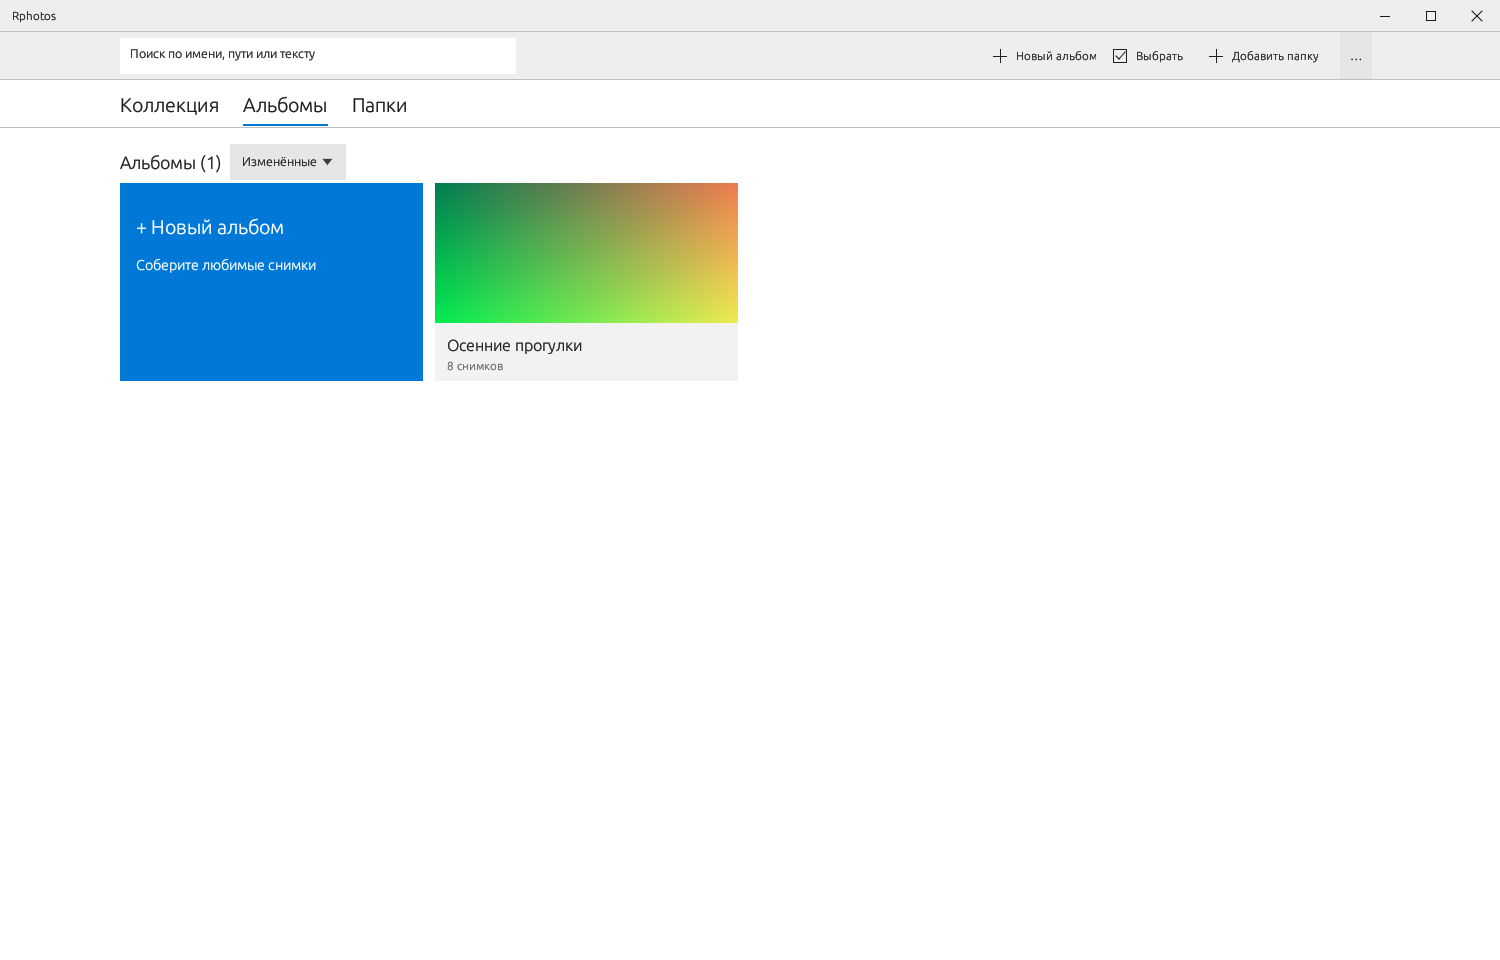
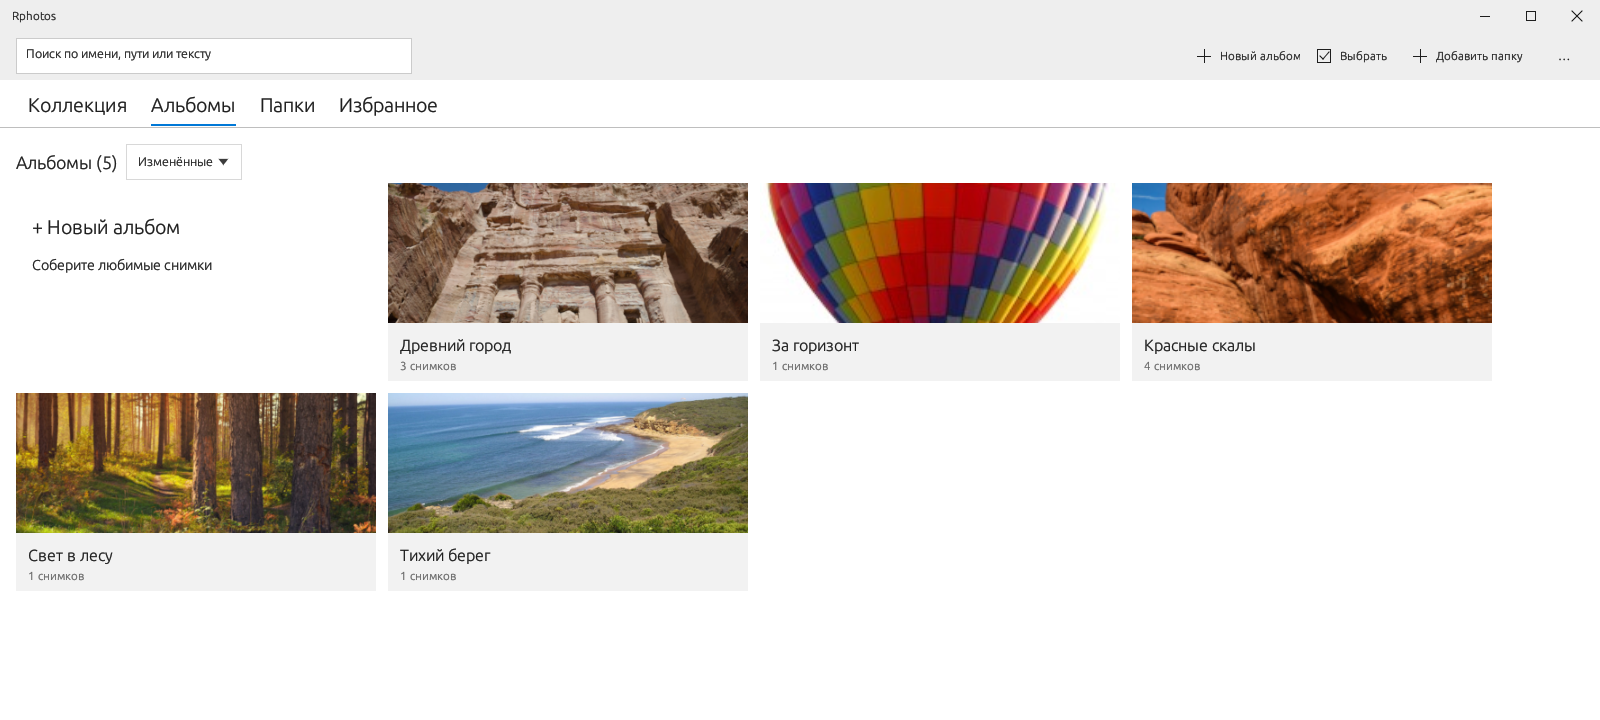
Refresh GitHub gallery with current UI and credited travel photographs

diff --git a/src/library/showcase.rs b/src/library/showcase.rs
@@ -1,0 +1,173 @@
+//! Opt-in public documentation captures; never reads the user's library.
+use super::*;
+use egui_kittest::Harness;
+
+#[test]
+#[ignore = "requires explicitly supplied licensed photos, RPHOTOS_SHOWCASE_INPUT and RPHOTOS_CAPTURE_DIR"]
+fn capture_showcase() {
+    let input = PathBuf::from(
+        std::env::var_os("RPHOTOS_SHOWCASE_INPUT").expect("set RPHOTOS_SHOWCASE_INPUT"),
+    );
+    let output =
+        PathBuf::from(std::env::var_os("RPHOTOS_CAPTURE_DIR").expect("set RPHOTOS_CAPTURE_DIR"));
+    std::fs::create_dir_all(&output).unwrap();
+    let temp = tempfile::tempdir().unwrap();
+    let source = temp.path().join("Travel journal");
+    std::fs::create_dir(&source).unwrap();
+    let mut inputs: Vec<_> = std::fs::read_dir(input)
+        .unwrap()
+        .map(|e| e.unwrap().path())
+        .filter(|p| p.extension().is_some_and(|e| e == "jpg"))
+        .collect();
+    inputs.sort();
+    assert!(inputs.len() >= 6, "supply at least six licensed JPGs");
+    for path in &inputs {
+        std::fs::copy(path, source.join(path.file_name().unwrap())).unwrap();
+    }
+    let database = temp.path().join("data/library.sqlite3");
+    let mut db = store::connect(&database).unwrap();
+    store::add_source(&db, &source).unwrap();
+    store::scan(&mut db, &std::sync::atomic::AtomicU64::new(1), 1, |_| {}).unwrap();
+    db.execute("UPDATE photos SET modified=1791028800", [])
+        .unwrap();
+    // Dates and albums below are demonstration data, not inferred EXIF or AI.
+    db.execute("DELETE FROM photo_dates", []).unwrap();
+    let state = store::snapshot(&db).unwrap();
+    let mut albums = Vec::new();
+    for (name, fragment) in [
+        ("Тихий берег", "coast"),
+        ("Свет в лесу", "forest"),
+        ("Красные скалы", "arches"),
+        ("За горизонт", "balloon"),
+        ("Древний город", "petra"),
+    ] {
+        let ids: Vec<_> = state
+            .photos
+            .iter()
+            .filter(|p| {
+                p.path
+                    .file_name()
+                    .unwrap()
+                    .to_string_lossy()
+                    .contains(fragment)
+            })
+            .map(|p| p.id)
+            .collect();
+        albums.push(store::create_album_with_photos(&mut db, name, &ids).unwrap());
+    }
+    for p in state.photos.iter().take(3) {
+        store::toggle_favorite(&db, p.id).unwrap();
+    }
+    drop(db);
+    for (name, appearance, section, album) in [
+        (
+            "collection-light",
+            Appearance::Light,
+            Section::Collection,
+            None,
+        ),
+        (
+            "collection-dark",
+            Appearance::Dark,
+            Section::Collection,
+            None,
+        ),
+        ("albums", Appearance::Light, Section::Albums, None),
+        (
+            "album-detail",
+            Appearance::Dark,
+            Section::Albums,
+            Some(albums[2]),
+        ),
+    ] {
+        let ctx = egui::Context::default();
+        let lib = Library::with_paths(&ctx, database.clone(), temp.path().join("cache"));
+        let settings = AppSettings {
+            appearance,
+            thumbnail_size: 190.0,
+            ..Default::default()
+        };
+        let mut h = Harness::builder()
+            .with_size(egui::vec2(
+                1600.0,
+                if name == "albums" { 720.0 } else { 900.0 },
+            ))
+            .wgpu()
+            .build_state(
+                |ctx, (lib, settings)| {
+                    lib.poll(ctx);
+                    lib.show(ctx, settings);
+                },
+                (lib, settings),
+            );
+        let deadline = std::time::Instant::now() + std::time::Duration::from_secs(20);
+        while !h.state().0.ready {
+            h.run_steps(2);
+            assert!(std::time::Instant::now() < deadline);
+            std::thread::sleep(std::time::Duration::from_millis(10));
+        }
+        h.state_mut().0.section = section;
+        if let Some(id) = album {
+            h.state_mut().0.enter_album(id);
+        }
+        loop {
+            h.run_steps(3);
+            if h.state().0.thumbnails.pending_count() == 0 {
+                break;
+            }
+            assert!(std::time::Instant::now() < deadline);
+            std::thread::sleep(std::time::Duration::from_millis(10));
+        }
+        // Allow batched aspect discovery to settle before the public render.
+        h.state_mut().0.layout_key = None;
+        h.run_steps(5);
+        h.render()
+            .unwrap()
+            .save(output.join(format!("{name}.png")))
+            .unwrap();
+    }
+    let path = source.join("08-petra.jpg");
+    assert!(path.is_file());
+    for (name, appearance) in [
+        ("viewer-light", Appearance::Light),
+        ("viewer-dark", Appearance::Dark),
+    ] {
+        let ctx = egui::Context::default();
+        let mut pane = crate::pane::Pane::new(&ctx, 2, 64, 1, false, true, 0);
+        pane.image_paths = vec![path.clone()];
+        let loaded = crate::file_io::load_image(&path);
+        pane.current_record = Some(loaded.record);
+        // kittest begins with a conservative 2048 texture limit; still larger
+        // than the fitted image in this 1600px capture. No UI is composited.
+        let pixels = crate::decode::image_to_color_image(
+            loaded.image.unwrap().thumbnail(2048, 2048),
+            loaded.orientation,
+        );
+        let settings = AppSettings {
+            appearance,
+            ..Default::default()
+        };
+        let mut h = Harness::builder()
+            .with_size(egui::vec2(1600.0, 1000.0))
+            .wgpu()
+            .build_state(
+                move |ctx, (viewer, pane, settings, uploaded)| {
+                    if !*uploaded {
+                        pane.current_texture = Some(ctx.load_texture(
+                            "showcase-photo",
+                            pixels.clone(),
+                            egui::TextureOptions::LINEAR,
+                        ));
+                        *uploaded = true;
+                    }
+                    viewer.show(ctx, pane, settings, false);
+                },
+                (crate::viewer::Viewer::default(), pane, settings, false),
+            );
+        h.run_steps(5);
+        h.render()
+            .unwrap()
+            .save(output.join(format!("{name}.png")))
+            .unwrap();
+    }
+}

diff --git a/scripts/fetch-showcase-photos.py b/scripts/fetch-showcase-photos.py
@@ -1,0 +1,51 @@
+#!/usr/bin/env python3
+"""Explicit download for public screenshot fixtures; never run by Rphotos/CI.
+
+Usage: python3 scripts/fetch-showcase-photos.py /tmp/opencode/rphotos-showcase-photos
+Photo attribution and separate licenses: docs/screenshots/README.md.
+"""
+import argparse
+from concurrent.futures import ThreadPoolExecutor
+from pathlib import Path
+from urllib.request import urlopen
+
+COMMIT = "26e2d4d27113a86b9dd99dc7e559ab25aa782436"
+BASE = f"https://raw.githubusercontent.com/scikit-image/skimage-tutorials/{COMMIT}/images/"
+PHOTOS = {
+    "01-coast.jpg": "Bells-Beach.jpg",
+    "02-forest.jpg": "forest.jpg",
+    "03-balloon.jpg": "balloon.jpg",
+    "04-arches.jpg": "pano/JDW_0302.jpg",
+    "05-arches.jpg": "pano/JDW_0303.jpg",
+    "06-arches.jpg": "pano/JDW_9518.jpg",
+    "07-arches.jpg": "pano/JDW_9519.jpg",
+    "08-petra.jpg": "pano/DFM_4209.jpg",
+    "09-petra.jpg": "pano/DFM_4210.jpg",
+    "10-petra.jpg": "pano/DFM_4211.jpg",
+}
+
+
+def main():
+    parser = argparse.ArgumentParser(description=__doc__)
+    parser.add_argument("directory", type=Path)
+    directory = parser.parse_args().directory
+    directory.mkdir(parents=True, exist_ok=True)
+
+    def download(item):
+        name, source = item
+        with urlopen(BASE + source, timeout=30) as response:
+            data = response.read(16 * 1024 * 1024 + 1)
+        if len(data) > 16 * 1024 * 1024:
+            raise ValueError("Showcase image exceeds download limit")
+        # Exclusive create: do not overwrite any existing user file.
+        with (directory / name).open("xb") as output:
+            output.write(data)
+        return name
+
+    with ThreadPoolExecutor(max_workers=4) as pool:
+        for name in pool.map(download, PHOTOS.items()):
+            print(name)
+
+
+if __name__ == "__main__":
+    main()

diff --git a/scripts/test_package.py b/scripts/test_package.py
@@ -25,6 +25,7 @@ class PackagingTests(unittest.TestCase):
             "docs/PHOTOS-2019-AUDIT.md", "docs/screenshots/README.md",
             "docs/screenshots/collection-light.png", "docs/screenshots/albums.png",
             "docs/screenshots/viewer-light.png",
+            "docs/screenshots/collection-dark.png", "docs/screenshots/viewer-dark.png",
             "assets/rphotos.desktop", "Cargo.lock",
             # These must NOT be collected by the archive's strict allowlist.
             "settings.yaml", "private/photo.jpg", "private/hosts.yml",
@@ -65,7 +66,7 @@ class PackagingTests(unittest.TestCase):
                     with tarfile.open(archive) as out:
                         contents = {n: out.extractfile(n).read() for n in out.getnames()}
                 relative = {n.split("/", 1)[1] for n in contents}
-                self.assertEqual(len(relative), 23 if system == "Linux" else 22)
+                self.assertEqual(len(relative), 25 if system == "Linux" else 24)
                 self.assertIn("rphotos.exe" if system == "Windows" else "rphotos", relative)
                 self.assertNotIn("settings.yaml", relative)
                 self.assertFalse(any("private" in n or ".." in Path(n).parts for n in contents))

diff --git a/scripts/package.py b/scripts/package.py
@@ -32,6 +32,7 @@ def package(root, profile, output):
         "docs/PHOTOS-2019-AUDIT.md", "docs/screenshots/README.md",
         "docs/screenshots/collection-light.png", "docs/screenshots/albums.png",
         "docs/screenshots/viewer-light.png",
+        "docs/screenshots/collection-dark.png", "docs/screenshots/viewer-dark.png",
         "Cargo.lock",
     ))
     if system == "linux":

diff --git a/src/library/mod.rs b/src/library/mod.rs
@@ -11,6 +11,8 @@ mod layout;
 mod navigation;
 mod preferences;
 mod semantic;
+#[cfg(test)]
+mod showcase;
 mod shell;
 pub mod store;
 mod thumbnail_jobs;

diff --git a/docs/screenshots/README.md b/docs/screenshots/README.md
@@ -1,16 +1,41 @@
 # Public UI captures
 
-These three PNG files are offscreen wgpu renders from Rphotos capture tests.
-All visible images are generated RGB gradients; album names and filenames are
-test fixtures. No user photographs, tablet reference captures, desktop windows,
-library database, credentials or model output are included.
+These PNGs are actual offscreen wgpu renders of the current Rphotos UI, not mockups.
+They use a deliberately prepared public demo library. Album titles, favorites and
+dates are demonstration data, not inferred EXIF or AI results. No user photographs,
+tablet reference captures, desktop windows, databases or credentials are published.
+
+## Photography credits and licenses
+
+The application code license does **not** replace the photographs' licenses.
+Photographs are displayed fitted/cropped by Rphotos; no authorship is claimed.
+Source: [scikit-image tutorials](https://github.com/scikit-image/skimage-tutorials/tree/26e2d4d27113a86b9dd99dc7e559ab25aa782436/images), pinned commit
+`26e2d4d27113a86b9dd99dc7e559ab25aa782436`.
+
+| Photos visible in captures | Attribution | License |
+| --- | --- | --- |
+| `Bells-Beach.jpg`, `forest.jpg`, `balloon.jpg` | scikit-image tutorial contributors; individual photographer not identified in the repository | [CC0 1.0](https://creativecommons.org/publicdomain/zero/1.0/), per [repository declaration](https://github.com/scikit-image/skimage-tutorials/blob/26e2d4d27113a86b9dd99dc7e559ab25aa782436/README.md#usage) |
+| `JDW_0302.jpg`, `JDW_0303.jpg`, `JDW_9518.jpg`, `JDW_9519.jpg` — Arches National Park | © 2014 Joshua D. Warner | [CC BY 4.0](https://creativecommons.org/licenses/by/4.0/) |
+| `DFM_4209.jpg`, `DFM_4210.jpg`, `DFM_4211.jpg` — Petra | © 2014 Francois Malan | [CC BY 3.0](https://creativecommons.org/licenses/by/3.0/) |
+
+The panorama-specific licenses override the repository's general CC0 statement:
+[original photo license notice](https://github.com/scikit-image/skimage-tutorials/blob/26e2d4d27113a86b9dd99dc7e559ab25aa782436/images/pano/LICENSE.txt).
+Screenshots embed resized/cropped versions of these photographs. Viewer images are
+fitted; album/card covers are center-cropped. UI artwork remains MIT OR Apache-2.0.
 
 Regenerate with:
 
 ```sh
-RPHOTOS_CAPTURE_DIR=/tmp/opencode/rphotos-captures cargo test --locked capture_ -- --ignored --nocapture
+python3 scripts/fetch-showcase-photos.py /tmp/opencode/rphotos-showcase-photos
+RPHOTOS_SHOWCASE_INPUT=/tmp/opencode/rphotos-showcase-photos \
+RPHOTOS_CAPTURE_DIR=/tmp/opencode/rphotos-showcase \
+  cargo test --locked capture_showcase -- --ignored --nocapture
 ```
 
+Copy only the reviewed collection-light/dark, albums and viewer-light/dark PNGs.
+The ordinary regression captures still use generated gradients; their behavior is
+unchanged. This opt-in showcase never downloads anything itself, never reads the
+user's index, and uses an isolated temporary SQLite library/cache.
+
 These captures show layout, not native compositor blur, real touchscreen behavior
-or image-analysis quality. Artwork and generated fixtures follow the project's
-MIT OR Apache-2.0 licensing.
+or image-analysis quality. No fake desktop blur or external window is composited.

diff --git a/README.md b/README.md
@@ -6,14 +6,31 @@ Photos 2019. Приоритет: Linux, затем Windows и macOS.
 
 [![Build and test](https://github.com/DurkaEbanaya/Rphotos/actions/workflows/ci.yml/badge.svg)](https://github.com/DurkaEbanaya/Rphotos/actions/workflows/ci.yml)
 
-[Скачать Development Preview 1 — Linux / Windows / macOS](https://github.com/DurkaEbanaya/Rphotos/releases/tag/v0.1.0-dev.1).
+[Скачать Development Preview 2 — Linux / Windows / macOS](https://github.com/DurkaEbanaya/Rphotos/releases/tag/v0.1.0-dev.2).
 Это предварительная сборка, не stable release; сначала прочтите [ограничения](docs/PREVIEW.md).
 
 ![Коллекция Rphotos](docs/screenshots/collection-light.png)
 
-Снимок настоящего offscreen GPU-render приложения на синтетических изображениях,
-не макет. Это не демонстрация compositor blur или качества распознавания.
-[Альбомы](docs/screenshots/albums.png) · [Просмотрщик](docs/screenshots/viewer-light.png)
+Актуальный интерфейс приложения с демонстрационной фотобиблиотекой — настоящий
+GPU-render, не макет. [Авторы фотографий и лицензии](docs/screenshots/README.md).
+Размытие системного фона и качество распознавания здесь не демонстрируются.
+
+<details>
+<summary>Ещё скриншоты: тёмная тема, альбомы и просмотрщик</summary>
+
+### Коллекция · тёмная тема
+![Тёмная коллекция](docs/screenshots/collection-dark.png)
+
+### Альбомы
+![Альбомы Rphotos](docs/screenshots/albums.png)
+
+### Просмотр фотографии · тёмная тема
+![Тёмный просмотрщик](docs/screenshots/viewer-dark.png)
+
+### Просмотр фотографии · светлая тема
+![Светлый просмотрщик](docs/screenshots/viewer-light.png)
+
+</details>
 
 ## Текущий статус
 
